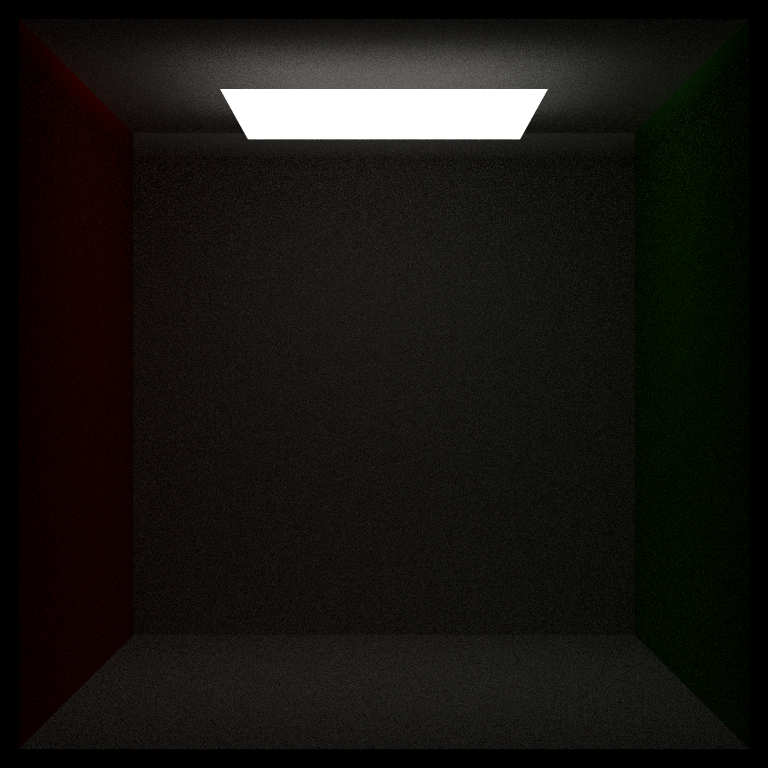
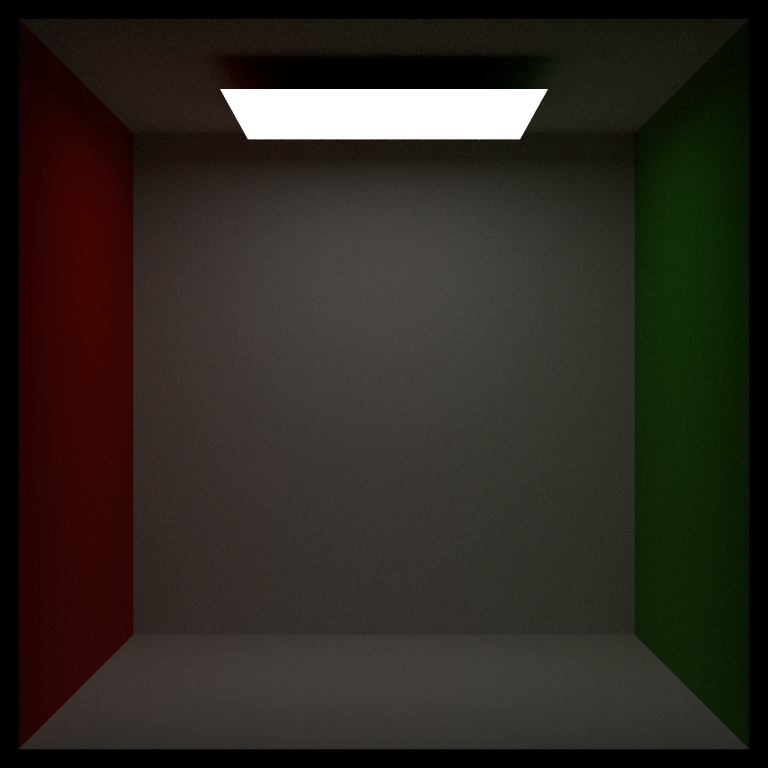
处理换手transform

diff --git a/LumiRender/src/render/scene/scene_data.cpp b/LumiRender/src/render/scene/scene_data.cpp
@@ -95,43 +95,73 @@ namespace luminous {
 
         void SceneData::fill_attribute(index_t inst_id, index_t tri_id, float2 bary,
                                        float3 *world_p, float3 *world_ng_un, float2 *tex_coord,
-                                       float3 *world_ns_un) const {
+                                       float3 *world_ns_un, SurfaceInteraction *si) const {
             auto mesh = get_mesh(inst_id);
             TriangleHandle tri = get_triangle(mesh, tri_id);
 
             const auto &o2w = get_transform(inst_id);
             // compute pos
             const auto &mesh_positions = get_positions(mesh);
-            luminous::float3 p0 = mesh_positions[tri.i];
-            luminous::float3 p1 = mesh_positions[tri.j];
-            luminous::float3 p2 = mesh_positions[tri.k];
-            *world_p = o2w.apply_point(triangle_lerp(bary, p0, p1, p2));
+            luminous::float3 p0 = o2w.apply_point(mesh_positions[tri.i]);
+            luminous::float3 p1 = o2w.apply_point(mesh_positions[tri.j]);
+            luminous::float3 p2 = o2w.apply_point(mesh_positions[tri.k]);
+            *world_p = triangle_lerp(bary, p0, p1, p2);
 
-            if (world_ng_un) {
-                luminous::float3 dp02 = p0 - p2;
-                luminous::float3 dp12 = p1 - p2;
-                *world_ng_un = o2w.apply_normal(cross(dp02, dp12));
-            }
+            luminous::float2 tex_coord0, tex_coord1, tex_coord2;
 
-            if (world_ns_un) {
-                const auto &mesh_normals = get_normals(mesh);
-                auto n0 = mesh_normals[tri.i];
-                auto n1 = mesh_normals[tri.j];
-                auto n2 = mesh_normals[tri.k];
-                *world_ns_un = o2w.apply_normal(triangle_lerp(bary, n0, n1, n2));
-            }
-
-            if (tex_coord) {
+            if (tex_coord || si) {
+                // compute tex_coord
                 const auto &mesh_tex_coords = get_tex_coords(mesh);
-                luminous::float2 tex_coord0 = mesh_tex_coords[tri.i];
-                luminous::float2 tex_coord1 = mesh_tex_coords[tri.j];
-                luminous::float2 tex_coord2 = mesh_tex_coords[tri.k];
+                tex_coord0 = mesh_tex_coords[tri.i];
+                tex_coord1 = mesh_tex_coords[tri.j];
+                tex_coord2 = mesh_tex_coords[tri.k];
                 if (is_zero(tex_coord0) && is_zero(tex_coord1) && is_zero(tex_coord2)) {
                     tex_coord0 = luminous::make_float2(0, 0);
                     tex_coord1 = luminous::make_float2(1, 0);
                     tex_coord2 = luminous::make_float2(1, 1);
                 }
                 *tex_coord = triangle_lerp(bary, tex_coord0, tex_coord1, tex_coord2);
+                if (si) {
+                    si->uv = *tex_coord;
+                }
+            }
+
+            if (world_ng_un || si) {
+                luminous::float3 dp02 = p0 - p2;
+                luminous::float3 dp12 = p1 - p2;
+                *world_ng_un = cross(dp02, dp12);
+                if (si) {
+                    // compute geometry uvn
+                    si->prim_area = 0.5f * length(*world_ng_un);
+                    luminous::float2 duv02 = tex_coord0 - tex_coord2;
+                    luminous::float2 duv12 = tex_coord1 - tex_coord2;
+                    float det = duv02[0] * duv12[1] - duv02[1] * duv12[0];
+                    float inv_det = 1 / det;
+
+                    luminous::float3 dp_du = (duv12[1] * dp02 - duv02[1] * dp12) * inv_det;
+                    luminous::float3 dp_dv = (-duv12[0] * dp02 + duv02[0] * dp12) * inv_det;
+                    si->g_uvn.set(normalize(dp_du), normalize(dp_dv), normalize(*world_ng_un));
+                }
+            }
+
+            if (world_ns_un || si) {
+                // compute shading uvn
+                const auto &mesh_normals = get_normals(mesh);
+                auto n0 = mesh_normals[tri.i];
+                auto n1 = mesh_normals[tri.j];
+                auto n2 = mesh_normals[tri.k];
+                *world_ns_un = o2w.apply_normal(triangle_lerp(bary, n0, n1, n2));
+                if (si) {
+                    if (is_zero(*world_ns_un)) {
+                        si->s_uvn = si->g_uvn;
+                    } else {
+                        luminous::float3 ns = normalize(*world_ns_un);
+                        luminous::float3 ss = si->g_uvn.dp_du;
+                        luminous::float3 st = normalize(cross(ns, ss));
+                        ss = cross(st, ns);
+                        si->s_uvn.set(ss, st, ns);
+                    }
+                }
             }
         }
 

diff --git a/LumiRender/src/render/scene/scene_data.h b/LumiRender/src/render/scene/scene_data.h
@@ -137,7 +137,8 @@ namespace luminous {
             LM_XPU void fill_attribute(index_t inst_id, index_t tri_id, float2 bary,
                                        float3 *world_p, float3 *world_ng_un = nullptr,
                                        float2 *tex_coord = nullptr,
-                                       float3 *world_ns_un = nullptr) const;
+                                       float3 *world_ns_un = nullptr,
+                                       SurfaceInteraction *si = nullptr) const;
 
             LM_XPU_INLINE void fill_attribute(const HitInfo &closest_hit,
                                               float3 *world_p, float3 *world_ng = nullptr,

diff --git a/LumiRender/src/parser/scene_graph.cpp b/LumiRender/src/parser/scene_graph.cpp
@@ -40,7 +40,7 @@ namespace luminous {
                     aabb.extend(p);
                 }
 
-                vector<float3> N(4, make_float3(0, 0, 1));
+                vector<float3> N(4, make_float3(0, 0, 0));
 
                 vector<float2> UV{make_float2(1, 1),
                                   make_float2(1, 0),

diff --git a/LumiRender/src/view/application.cpp b/LumiRender/src/view/application.cpp
@@ -200,7 +200,7 @@ namespace luminous {
         double d = clock.elapse_ms();
         acc_t += d;
         ++test_count;
-//        cout << d << "  " << acc_t / test_count <<"   " << test_count << endl;
+        cout << d << "  " << acc_t / test_count <<"   " << test_count << endl;
     }
 
     int App::run_with_gui() {
